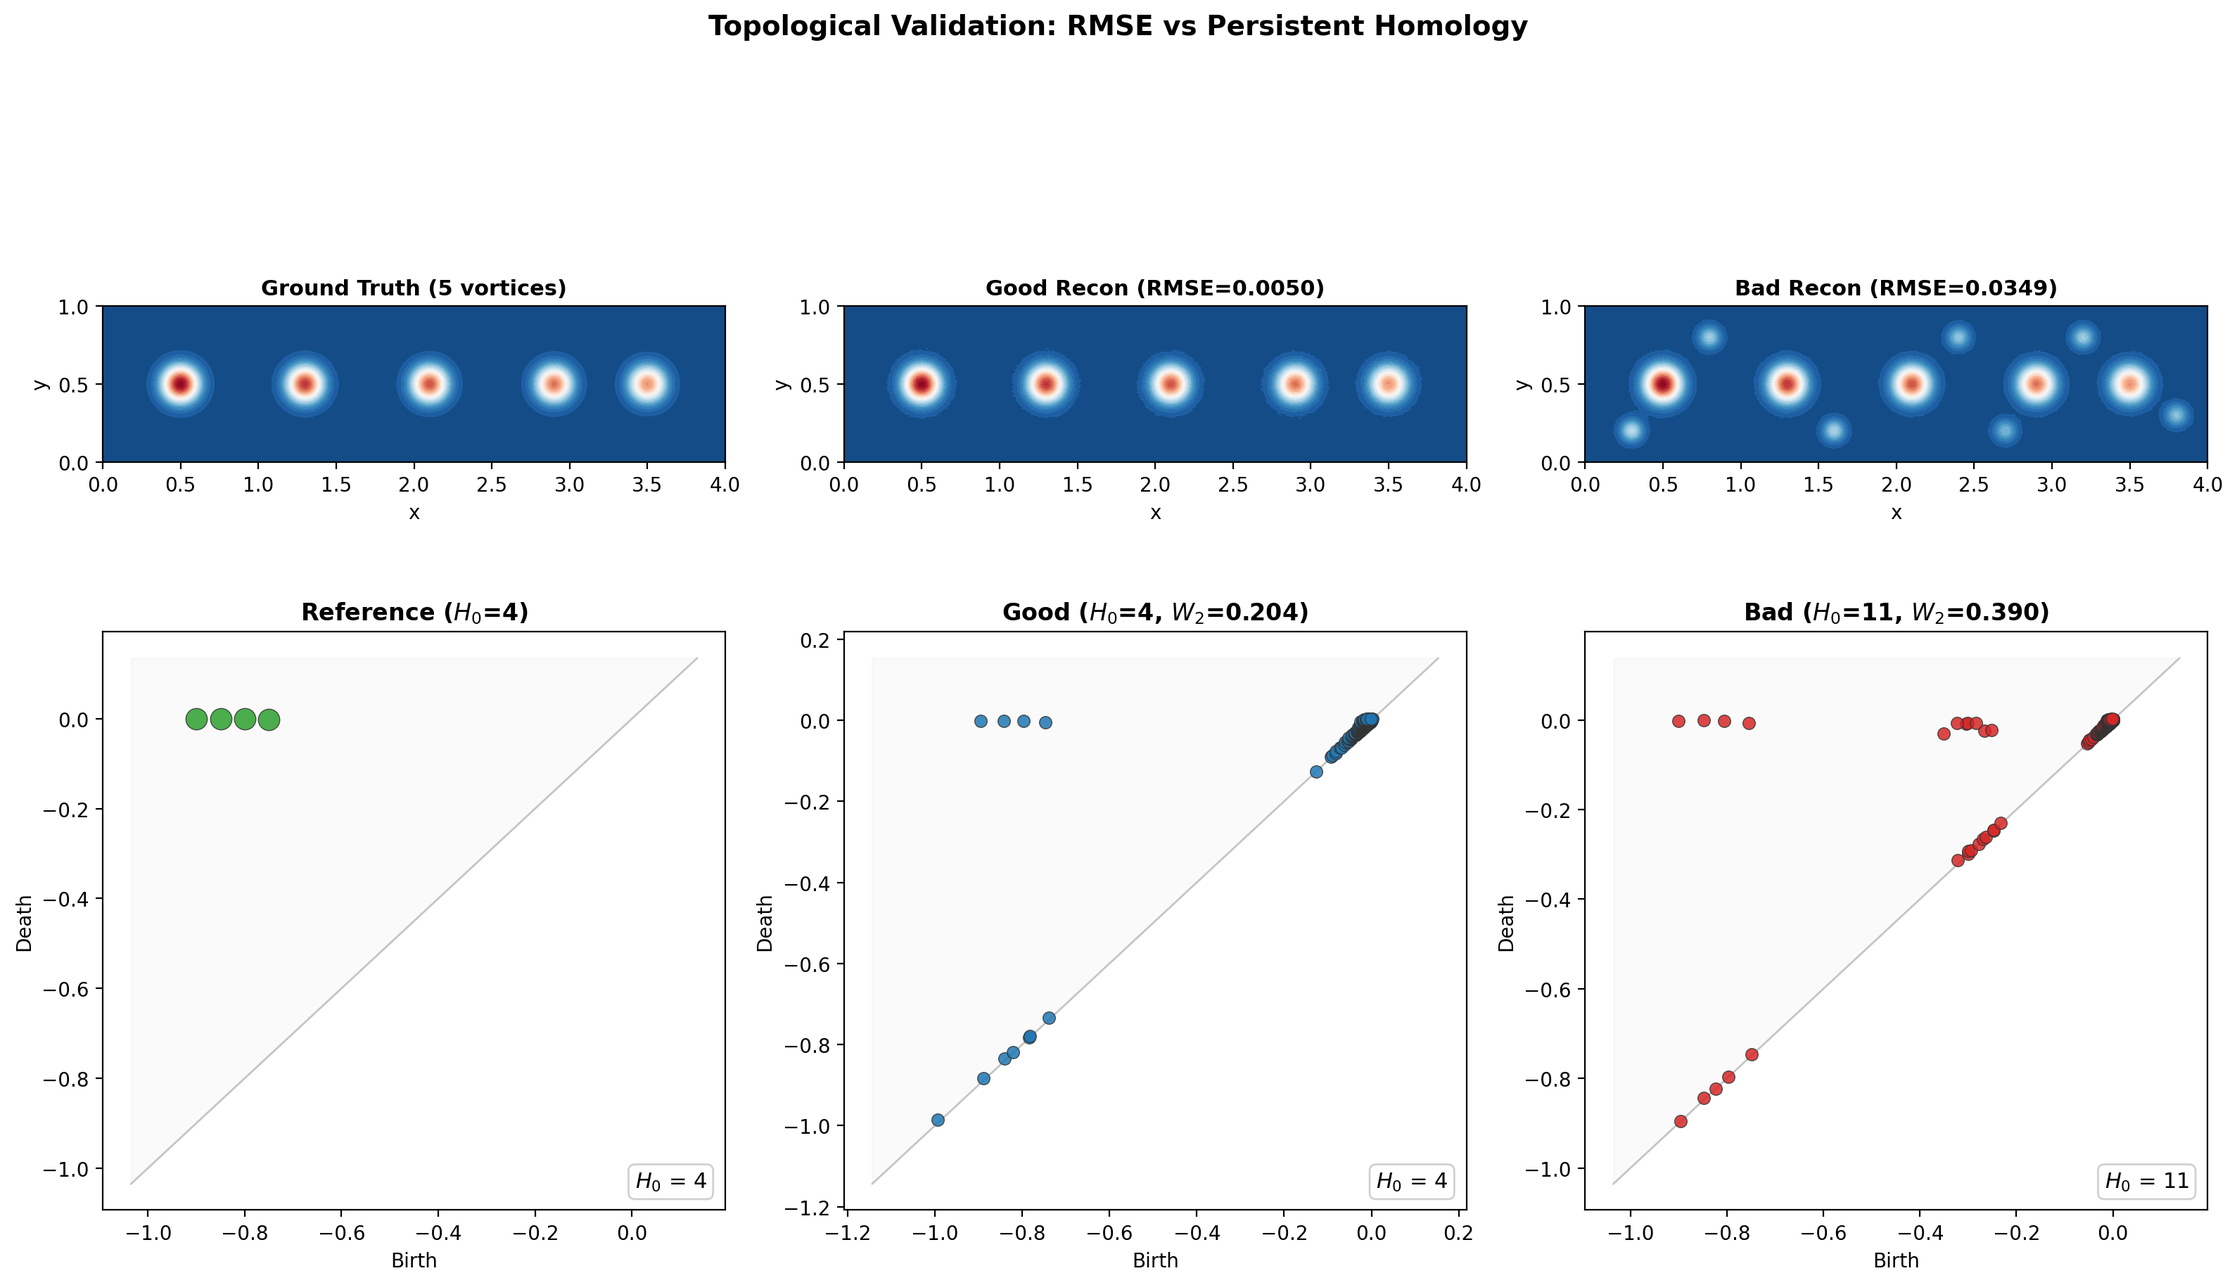
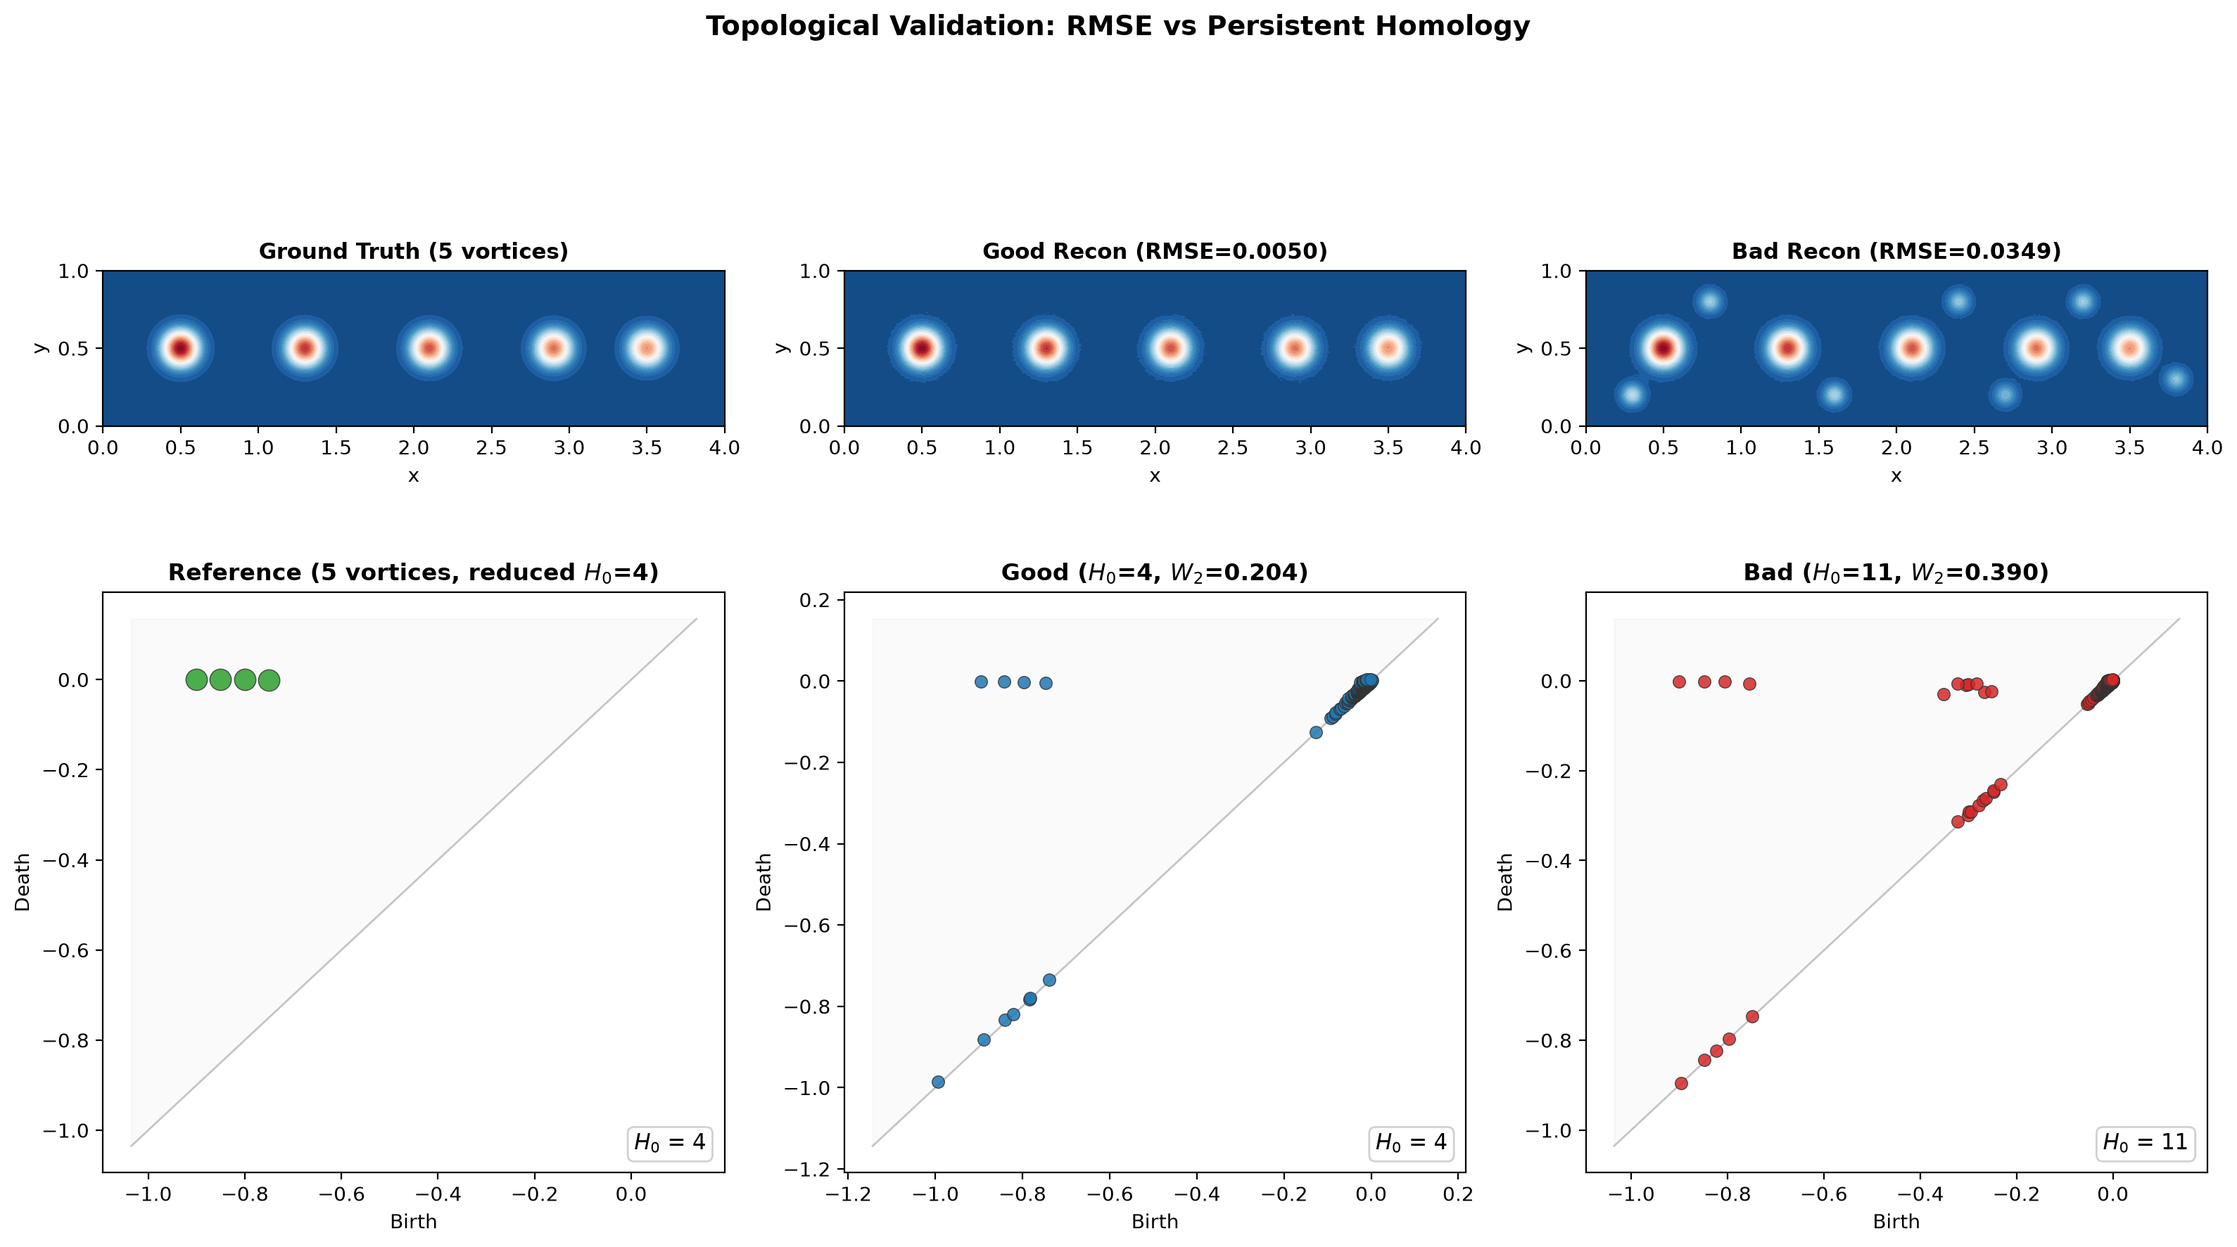
Fix install, citation and H0 convention documentation
The documented install did not work. gudhi.wasserstein needs POT, GUDHI
does not pull it in, and POT was missing from requirements.txt and from
the README command, so a clean install failed with "No module named 'ot'"
as soon as the Wasserstein distance was computed. Added POT, switched the
README to install from requirements.txt, and dropped scipy, which nothing
in the tree imports.

Corrected the citation. The module docstring pointed at a manuscript title
that no longer exists and the README carried no DOI at all. Both now cite
the Zenodo preprint as it is actually deposited, and a CITATION.cff carries
the same information in machine-readable form. A note records that an
extended version is under review under a different title.

Documented the counting convention. H0 is reduced, so the essential class
is excluded and the 5-vortex demo field reports H0 = 4. That was correct
but unexplained, and it read as an off-by-one. It is now stated in the
README, in the pipeline docstrings, and in the demo output.

Toned down the metric table. The H0 count and the Wasserstein distance are
standard tools in topological data analysis, not new objects. What is new
here is their use as a validation layer, so the table says that instead of
labelling them "Novel".

Recorded reproducibility limits. The printed numbers are stable across the
version ranges in requirements.txt and are now tabulated in the README, but
the tracked figure is not byte-identical across matplotlib releases.
[…]

diff --git a/demo_synthetic.py b/demo_synthetic.py
@@ -8,11 +8,15 @@ well-separated vortices, generates a "hallucinated" reconstruction with
 spurious structures, and shows how persistent homology detects the structural
 corruption that RMSE alone cannot distinguish.
 
+Counting convention: H0 is reduced, meaning the essential class is excluded.
+The reference field below has 5 vortices and therefore reports H0 = 4, and the
+corrupted field has 12 and reports 11. See the README for why.
+
 Usage:
     python demo_synthetic.py
 
 Output:
-    - Console: RMSE, H₀ counts, W₂ distance for each reconstruction
+    - Console: RMSE, H0 counts, W2 distance for each reconstruction
     - File: demo_validation_output.png (comparison plot)
 
 Author: Jesús Garví-Gualda
@@ -35,8 +39,10 @@ def make_vortex(xx, yy, cx, cy, strength=1.0, sigma=0.08):
 
 def main():
     print("=" * 65)
-    print("  Topological Validation Demo — Synthetic Vortex Field")
+    print("  Topological Validation Demo: Synthetic Vortex Field")
     print("=" * 65)
+    print("  H0 is reduced (essential class excluded), so the 5-vortex")
+    print("  reference field reports H0 = 4.")
 
     N = 256
     x = np.linspace(0, 4, N)
@@ -52,14 +58,14 @@ def main():
         make_vortex(xx, yy, 3.5, 0.5, strength=0.75, sigma=0.08)
     )
 
-    # --- Good reconstruction (faithful, tiny noise) ──────────────────
+    # --- Good reconstruction (faithful, tiny noise)
     np.random.seed(42)
     vorticity_good = vorticity_true + 0.005 * np.random.randn(N, N)
 
     # --- Bad reconstruction (competitive RMSE but hallucinated vortices)
     np.random.seed(123)
     vorticity_bad = vorticity_true.copy()
-    # Add 7 spurious hallucinated vortices (small amplitude ≈ low RMSE)
+    # Add 7 spurious hallucinated vortices (small amplitude, so low RMSE)
     for cx, cy, s in [(0.3, 0.2, 0.35), (0.8, 0.8, 0.30),
                        (1.6, 0.2, 0.32), (2.4, 0.8, 0.28),
                        (2.7, 0.2, 0.25), (3.2, 0.8, 0.30),
@@ -68,8 +74,8 @@ def main():
     vorticity_bad += 0.003 * np.random.randn(N, N)
 
     # --- Validate
-    # Negate the field: sublevel-set filtration finds minima; negating
-    # turns vortex peaks into deep minima -- they become persistent H0
+    # Negate the field: a sublevel-set filtration finds minima, so negating
+    # turns vortex peaks into deep minima and they become persistent H0
     # features born early in the filtration.
     ref = -vorticity_true
     good = -vorticity_good
@@ -89,7 +95,7 @@ def main():
     print(f"   H₀ (recon)= {res_bad['H0_recon']}")
     print(f"   W₂        = {res_bad['W2']:.4f}")
 
-    # --- Key finding ───────────────────────────────────────────────────
+    # --- Key finding
     print("\n-- Summary --")
     rmse_ratio = res_bad['rmse'] / res_good['rmse'] if res_good['rmse'] > 0 else float('inf')
     w2_ratio = res_bad['W2'] / res_good['W2'] if res_good['W2'] > 0 else float('inf')
@@ -102,7 +108,7 @@ def main():
     else:
         print("   >> Pipeline correctly processed both fields.")
 
-    # --- Plot────
+    # --- Plot
     fig, axes = plt.subplots(2, 3, figsize=(16, 9))
 
     # Row 1: Vorticity fields
@@ -124,7 +130,7 @@ def main():
 
     # Row 2: Persistence diagrams
     plot_persistence_diagram(res_good['dgm_ref'], dim=0,
-                             title=f'Reference ($H_0$={res_good["H0_ref"]})',
+                             title=f'Reference (5 vortices, reduced $H_0$={res_good["H0_ref"]})',
                              ax=axes[1, 0], color='#2ca02c')
     plot_persistence_diagram(res_good['dgm_recon'], dim=0,
                              title=f'Good ($H_0$={res_good["H0_recon"]}, $W_2$={res_good["W2"]:.3f})',
@@ -134,7 +140,7 @@ def main():
                              ax=axes[1, 2], color='#d62728')
 
     fig.suptitle('Topological Validation: RMSE vs Persistent Homology',
-                 fontsize=14, fontweight='bold', y=1.01)
+                 fontsize=14, fontweight='bold')
     fig.tight_layout()
 
     out_path = 'demo_validation_output.png'

diff --git a/tda_pipeline.py b/tda_pipeline.py
@@ -4,18 +4,22 @@ Topological Validation Pipeline for Scalar Field Reconstructions.
 
 Implements persistent homology-based structural validation using GUDHI.
 Detects structural hallucinations in reconstructed scalar fields by comparing
-the H₀ persistence diagram (connected components) and Wasserstein-2 distance
+the H0 persistence diagram (connected components) and Wasserstein-2 distance
 against a reference field.
 
+H0 counts follow the reduced convention: the essential class is excluded, so a
+field with K well-separated basins reports K-1 features. See the README section
+"Counting convention for H0".
+
 Reference:
-    Garví-Gualda, J. (2026). "Topological validation of neural PDE solver
-    reconstructions: a persistent-homology layer with a maximum-principle
-    guarantee." Preprint, doi:10.5281/zenodo.18958345.
+    Garví-Gualda, J. (2026). "Beyond RMSE: Structural validation of
+    physics-informed neural network reconstructions via persistent homology."
+    Zenodo preprint, doi:10.5281/zenodo.18958345.
 
 Dependencies:
     - gudhi >= 3.9
     - numpy >= 1.24
-    - scipy >= 1.11
+    - POT >= 0.9 (required by gudhi.wasserstein)
 
 Author: Jesús Garví-Gualda
 License: MIT
@@ -116,6 +120,11 @@ def count_significant_features(
     Features with persistence (lifetime) below `threshold_ratio` times the
     maximum persistence are considered numerical noise and excluded.
 
+    The essential class (the component that is born first and never dies) is
+    also excluded, so this returns a reduced count: a field with K
+    well-separated basins gives K-1. The offset is the same for the reference
+    and the reconstruction, so comparisons between the two are unaffected.
+
     Args:
         persistence_result: Output from compute_persistence().
         dim: Homology dimension (0 for connected components).
@@ -185,8 +194,9 @@ def validate(
     One-call topological validation of a reconstructed field against a reference.
 
     Computes:
-        - L² RMSE between the fields
-        - H₀ feature count (significant connected components) for both fields
+        - L2 RMSE between the fields
+        - reduced H0 feature count (significant connected components, essential
+          class excluded) for both fields
         - Wasserstein-2 distance between persistence diagrams
 
     Args:
@@ -197,9 +207,9 @@ def validate(
 
     Returns:
         Dictionary with keys:
-            'rmse': L² RMSE between fields
-            'H0_recon': significant H₀ count for reconstructed field
-            'H0_ref': significant H₀ count for reference field
+            'rmse': L2 RMSE between fields
+            'H0_recon': significant reduced H0 count for reconstructed field
+            'H0_ref': significant reduced H0 count for reference field
             'W2': Wasserstein-2 distance between persistence diagrams
     """
     # RMSE (on un-normalized fields)

diff --git a/README.md b/README.md
@@ -1,35 +1,79 @@
 # Topological Validation Pipeline
 
-
 **Topological validation of scalar field reconstructions via persistent homology.**
 
-A lightweight post-hoc validation tool that uses persistent homology to detect structural hallucinations in reconstructed scalar fields. Standard pointwise metrics (RMSE) cannot distinguish between structurally correct and structurally corrupted reconstructions — this pipeline fills that gap.
+A lightweight post-hoc validation tool that uses persistent homology to detect
+structural hallucinations in reconstructed scalar fields. Standard pointwise
+metrics such as RMSE cannot distinguish between a structurally correct
+reconstruction and a structurally corrupted one, and this pipeline fills that
+gap.
 
 ## Quick Start
 
 ```bash
-pip install gudhi numpy scipy matplotlib
+pip install -r requirements.txt
 python demo_synthetic.py
 ```
 
+Installing from `requirements.txt` matters: `gudhi.wasserstein` needs the `POT`
+package, and GUDHI does not pull it in. Installing GUDHI alone leads to
+`ModuleNotFoundError: No module named 'ot'` as soon as the Wasserstein distance
+is computed.
+
 ## Reproducibility
 
-`demo_synthetic.py` is a self-contained, deterministic reproduction: it builds a
+`demo_synthetic.py` is a self-contained, deterministic reproduction. It builds a
 reference vortex field, a noise-only reconstruction, and a reconstruction with
-hallucinated structures, then prints RMSE, H0 counts, and W2 for each. It
-requires no external data and runs in a few seconds on a single CPU core. The
-core pipeline (`tda_pipeline.py`) has no solver dependencies and applies to any
-2D scalar field supplied as a NumPy array.
+hallucinated structures, then prints RMSE, H0 counts, and W2 for each. It needs
+no external data and runs in a few seconds on a single CPU core. The core
+pipeline (`tda_pipeline.py`) has no solver dependencies and applies to any 2D
+scalar field supplied as a NumPy array.
+
+Running the demo prints these values:
+
+| Reconstruction | RMSE | H0 (reference) | H0 (reconstruction) | W2 |
+|---|---|---|---|---|
+| Good (noise only) | 0.0050 | 4 | 4 | 0.2045 |
+| Bad (7 hallucinated vortices) | 0.0349 | 4 | 11 | 0.3903 |
+
+The bad reconstruction has an RMSE only about 7 times larger than the good one,
+which on its own reads as a mildly noisier fit. The H0 count goes from 4 to 11,
+which says plainly that seven structures were invented.
+
+These numbers are stable across the version ranges in `requirements.txt`. The
+tracked figure `demo_validation_output.png` is not: matplotlib changes rendering
+details between releases, so a regenerated figure is visually equivalent but not
+byte-identical. `requirements-lock.txt` records the exact versions used to
+produce the tracked figure and the table above (verified on 25 July 2026 with
+Python 3.13).
+
+## Counting convention for H0
+
+The pipeline reports **reduced H0**: the essential class is excluded from the
+count. In a sublevel-set filtration of a field with K well-separated basins, one
+component is born first and never dies, so K basins give K-1 finite H0 features.
+
+This is why the synthetic demo builds 5 vortices and reports H0 = 4, and why the
+corrupted field with 5 + 7 = 12 vortices reports H0 = 11. The convention is
+deliberate and matches the protocol used in the manuscript: what matters for
+validation is the difference between two counts computed the same way, and the
+essential class contributes the same constant offset to both. If you need the
+raw number of basins, add 1.
 
 ## What It Does
 
 Given a reconstructed scalar field and a reference, the pipeline computes:
 
-| Metric | What it measures | Standard metric? |
-|--------|-----------------|-----------------|
-| **RMSE** | Pointwise accuracy | Yes |
-| **H0 count** | Number of significant topological features (vortices, shocks, etc.) | Novel |
-| **W2 distance** | Wasserstein-2 between persistence diagrams (structural similarity) | Novel |
+| Metric | What it measures | Where it comes from |
+|--------|-----------------|---------------------|
+| **RMSE** | Pointwise accuracy | Standard error metric |
+| **H0 count** | Number of significant topological features such as vortices or shocks | Standard persistent homology, applied here as a structural check |
+| **W2 distance** | Wasserstein-2 between persistence diagrams, that is, structural similarity | Standard distance between diagrams, applied here to compare reconstruction against reference |
+
+Neither the H0 count nor the Wasserstein distance is a new mathematical object.
+Both are established tools in topological data analysis. What this repository
+contributes is their use as a validation layer for field reconstructions,
+together with the evidence that they separate cases RMSE ranks as comparable.
 
 ## Usage
 
@@ -38,14 +82,18 @@ Given a reconstructed scalar field and a reference, the pipeline computes:
 ```python
 from tda_pipeline import validate
 
-# field_recon, field_ref: 2D numpy arrays (e.g., vorticity on a grid)
+# field_recon, field_ref: 2D numpy arrays (for example, vorticity on a grid)
 result = validate(-vorticity_recon, -vorticity_ref)
 
 print(f"RMSE = {result['rmse']:.4f}")
-print(f"H₀ (reference)      = {result['H0_ref']}")
-print(f"H₀ (reconstruction) = {result['H0_recon']}")
-print(f"W₂ distance         = {result['W2']:.4f}")
+print(f"H0 (reference)      = {result['H0_ref']}")
+print(f"H0 (reconstruction) = {result['H0_recon']}")
+print(f"W2 distance         = {result['W2']:.4f}")
 ```
+
+The fields are negated because the filtration is a sublevel-set one, which finds
+minima. Negating turns vorticity peaks into deep minima, so they appear as
+persistent H0 features born early in the filtration.
 
 ### Command Line
 
@@ -64,39 +112,52 @@ python examples/validate_field.py \
 |----------|---------|
 | `normalize_field(f)` | Max-abs normalization for scale-invariant comparison |
 | `compute_persistence(f)` | Sublevel-set persistent homology via GUDHI |
-| `count_significant_features(dgm)` | H₀ count with 10% persistence threshold |
+| `count_significant_features(dgm)` | Reduced H0 count with a 10% persistence threshold |
 | `topological_distance(dgm1, dgm2)` | Wasserstein-2 distance |
-| `validate(recon, ref)` | One-call: returns RMSE + H₀ + W₂ |
+| `validate(recon, ref)` | One call, returns RMSE, H0 counts and W2 |
 
 ## Dependencies
 
-- **GUDHI** ≥ 3.9 — persistent homology computation
-- **NumPy** ≥ 1.24 — array operations
-- **SciPy** ≥ 1.11 — (for examples with RBF interpolation)
-- **Matplotlib** ≥ 3.7 — visualization
+- **GUDHI** >= 3.9, persistent homology computation
+- **NumPy** >= 1.24, array operations
+- **POT** >= 0.9, required by `gudhi.wasserstein` for the Wasserstein distance
+- **Matplotlib** >= 3.7, visualization
 
 ## Method
 
-The pipeline uses **sublevel-set persistent homology** on scalar fields discretized on regular grids:
+The pipeline uses **sublevel-set persistent homology** on scalar fields
+discretized on regular grids:
 
 1. **Normalize** the field by its maximum absolute value
 2. **Compute** cubical persistent homology using GUDHI's `CubicalComplex`
-3. **Threshold** features at 10% of maximum persistence (separates signal from noise)
+3. **Threshold** features at 10% of maximum persistence, which separates signal
+   from numerical noise
 4. **Compare** persistence diagrams via the Wasserstein-2 distance
 
-The computation scales as **O(N)** for H₀ features (Union-Find with path compression), where N is the number of grid cells. On a single CPU core, a 4096×4096 grid completes in ~20 seconds.
+The computation scales as **O(N)** for H0 features, using Union-Find with path
+compression, where N is the number of grid cells. On a single CPU core, a
+4096x4096 grid completes in about 20 seconds.
 
 ## Citation
 
+This code accompanies the preprint deposited on Zenodo:
+
 ```bibtex
-@misc{garvi2026topological,
-  title={Topological validation of neural {PDE} solver reconstructions:
-         a persistent-homology layer with a maximum-principle guarantee},
+@misc{garvi2026beyond,
+  title={Beyond {RMSE}: Structural validation of physics-informed neural
+         network reconstructions via persistent homology},
   author={Garv{\'\i}-Gualda, Jes{\'u}s},
   year={2026},
-  note={Preprint}
+  howpublished={Zenodo preprint},
+  doi={10.5281/zenodo.18958345}
 }
 ```
+
+An extended version, titled "Topological validation of neural PDE solvers:
+pointwise error metrics cannot certify derived structure", is under review. This
+citation will be updated when it appears.
+
+`CITATION.cff` carries the same information in machine-readable form.
 
 ## License
 
